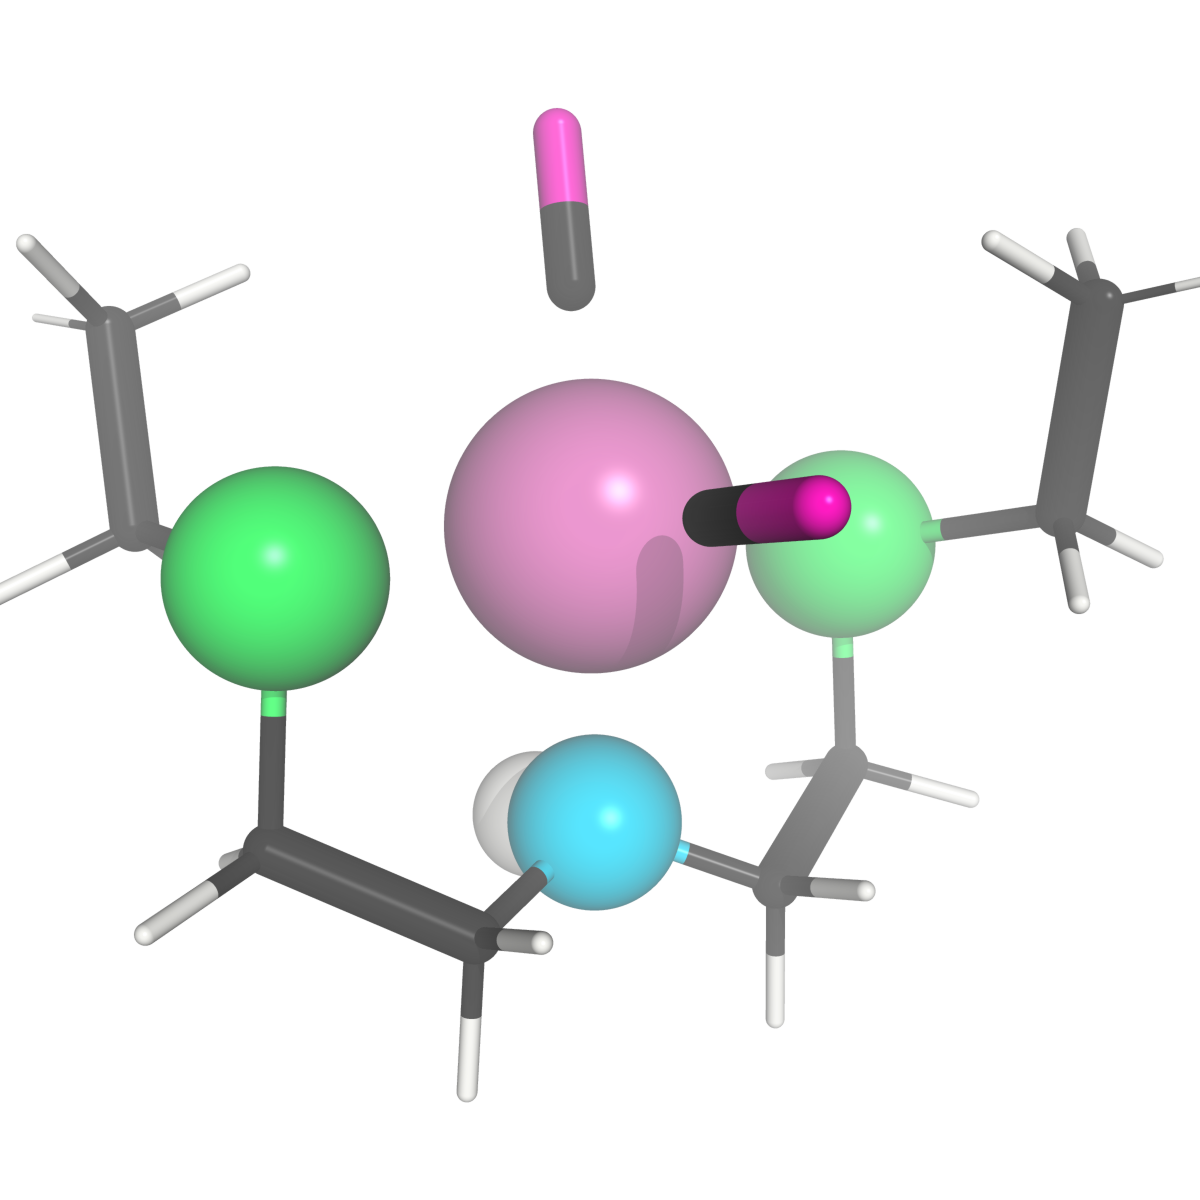
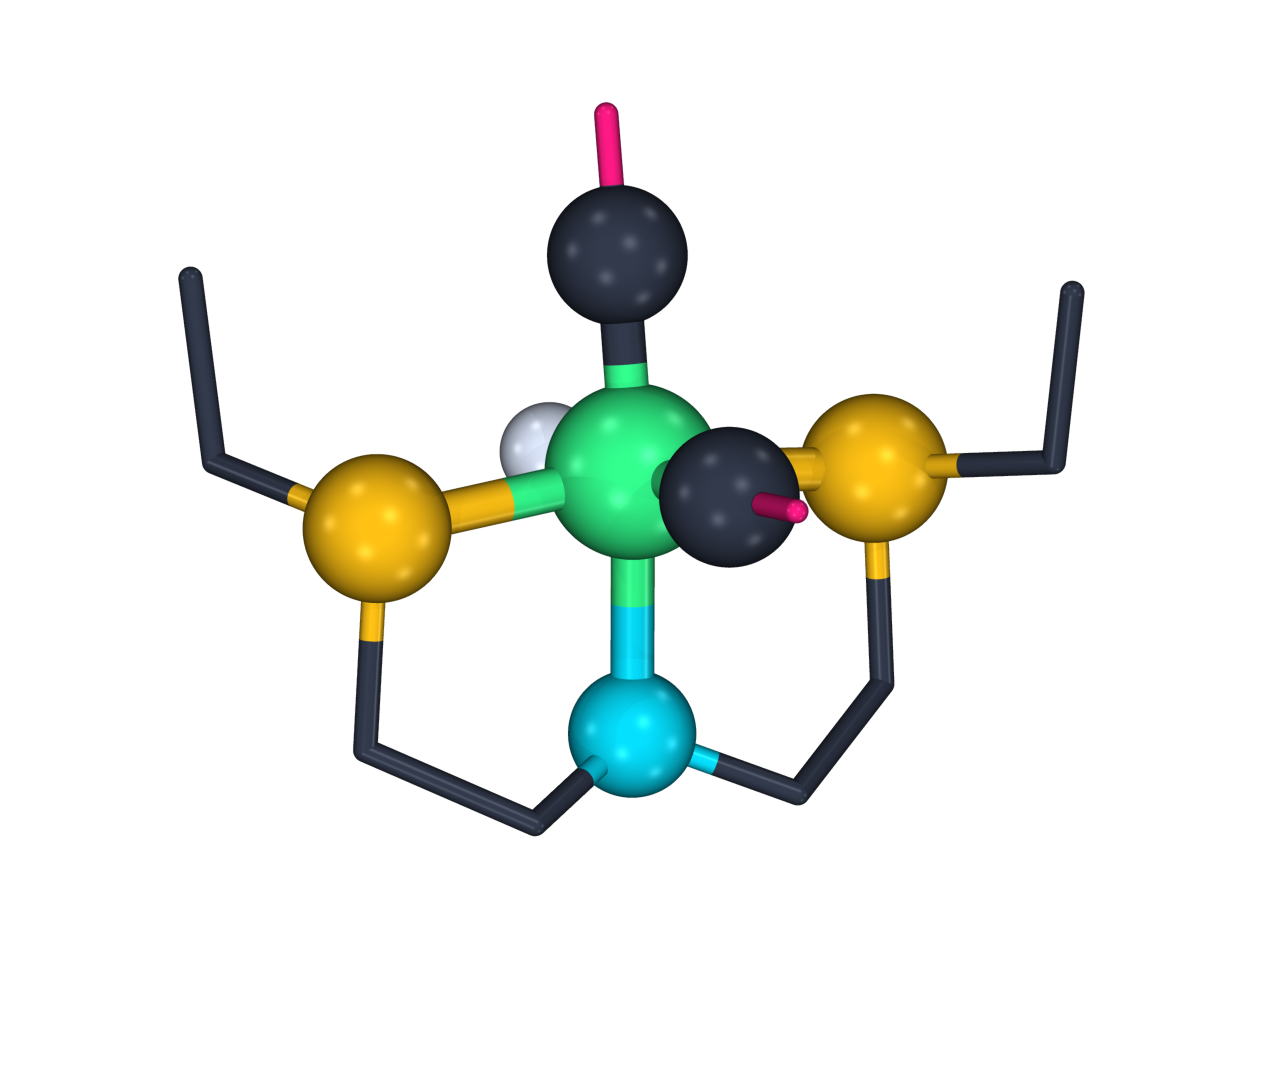
refactor: update steric-surface figure

Changed region(s): [[0.0, 0.0924, 1.0, 0.9235]]

diff --git a/chemsmart/jobs/mol/templates/scientific_styles.py b/chemsmart/jobs/mol/templates/scientific_styles.py
@@ -1515,22 +1515,72 @@ class StericSurfaceStyle(ScientificStyle):
 
     name = "steric_surface"
     command = "render_steric_surface"
+    prefix = "steric"
     message = "Transparent steric surface style applied."
 
-    def render(self, selection="all"):
-        _begin_scientific_style(selection)
-        _show_coord_ball_and_stick(selection)
-        _apply_coord_sphere_scales(0.095, 0.14, 0.24, 0.12, 0.52, 0.34)
-        _color_by_element(carbon="sci_C_gray", metal="metal_gold")
+    def _apply_atom_colors(self, sel, atoms):
+        self.apply_style_palette(
+            sel,
+            {
+                "C": "sci_C_gray",
+                "H": "sci_H_white",
+                "N": "sci_N_blue",
+                "O": "sci_O_red",
+                "S": "sci_S_yellow",
+                "P": "sci_P_orange",
+                "halogen": "sci_halogen",
+            },
+            overrides={atoms["metal"]: "metal_gold"},
+        )
+        cmd.color("sci_N_blue", atoms["donor_n"])
+        cmd.color("sci_S_yellow", atoms["donor_s"])
+        cmd.color("sci_P_orange", atoms["donor_p"])
+        cmd.color("sci_C_gray", atoms["co_c"])
+        cmd.color("sci_O_red", atoms["co_o"])
+        cmd.color("sci_H_white", atoms["hydride"])
 
-        cmd.show("surface", selection)
+    def render(self, selection="all"):
+        sel = f"({selection})"
+        _define_scientific_colors()
+        cmd.hide("everything", sel)
+
+        atoms = self.select_coordination(selection)
+
+        cmd.show("sticks", sel)
+        cmd.hide("sticks", f"{sel} and elem H and not {atoms['hydride']}")
+        cmd.hide("spheres", f"{sel} and elem H and not {atoms['hydride']}")
+        sphere_atoms = " or ".join(
+            part
+            for part in (
+                atoms["metal"],
+                atoms["donors"],
+                atoms["co_c"],
+                atoms["co_o"],
+                atoms["hydride"],
+            )
+            if part and part != "none"
+        )
+        if sphere_atoms:
+            cmd.show("spheres", sphere_atoms)
+
+        _safe_set("stick_radius", 0.095, sel)
+        _safe_set("stick_radius", 0.14, atoms["coordination_core"])
+        _safe_set("sphere_scale", 0.52, atoms["metal"])
+        _safe_set("sphere_scale", 0.34, atoms["donors"])
+        _safe_set("sphere_scale", 0.34, atoms["co_c"])
+        _safe_set("sphere_scale", 0.34, atoms["co_o"])
+        _safe_set("sphere_scale", 0.12, atoms["hydride"])
+
+        self._apply_atom_colors(sel, atoms)
+
+        cmd.show("surface", sel)
         cmd.color("surface_sky", selection)
-        cmd.set("transparency", 0.68, selection)
-        cmd.set("surface_quality", 1)
-        cmd.set("surface_solvent", 1)
+        _safe_set("transparency", 0.68, sel)
+        _safe_set("surface_quality", 1)
+        _safe_set("surface_solvent", 1)
 
         # Re-apply atom colors after surface coloring paints the whole selection.
-        _color_by_element(carbon="sci_C_gray", metal="metal_gold")
+        self._apply_atom_colors(sel, atoms)
 
         _apply_lighting(0.45, 0.22, 0.32, 0.74, 0.20, spec_power=120)
         _apply_view(
@@ -1539,10 +1589,7 @@ class StericSurfaceStyle(ScientificStyle):
             depth_cue=1,
             fog_start=0.45,
         )
-        _finish_scientific_style(
-            selection,
-            message=self.message,
-        )
+        self.finish_default(selection)
 
 
 class QuasiChemDrawBoldStyle(ScientificStyle):

diff --git a/tests/test_PyMOLJobs.py b/tests/test_PyMOLJobs.py
@@ -30,6 +30,7 @@ from chemsmart.jobs.mol.templates.scientific_styles import (
     ScientificStyle,
     SoftCartoonStyle,
     SoftCeramicStyle,
+    StericSurfaceStyle,
     XrayWireStyle,
     _get_coordinating_atoms,
     element_category_selection,
@@ -40,6 +41,7 @@ from chemsmart.jobs.mol.templates.scientific_styles import (
     render_quasi_chemdraw_bold,
     render_soft_cartoon,
     render_soft_ceramic,
+    render_steric_surface,
     render_xray_wire,
 )
 from chemsmart.jobs.mol.visualize import (
@@ -1204,6 +1206,41 @@ class TestPyMOLStyleCommands:
         assert '_safe_set("ray_trace_fog", 0)' in style_source
         assert "_set_transparent_background()" in style_source
         assert "apply_illustrated_camera" in style_source
+        assert "self.finish_default(selection)" in style_source
+
+    def test_render_steric_surface_defines_expected_visual_parameters(self):
+        style_source = inspect.getsource(StericSurfaceStyle)
+        wrapper_source = inspect.getsource(render_steric_surface)
+
+        assert issubclass(StericSurfaceStyle, ScientificStyle)
+        assert StericSurfaceStyle.prefix == "steric"
+        assert StericSurfaceStyle.command == "render_steric_surface"
+        assert "StericSurfaceStyle().render" in wrapper_source
+        assert "select_coordination" in style_source
+        assert "_begin_scientific_style" not in style_source
+        assert "_common_select_core" not in style_source
+        assert "_show_coord_ball_and_stick" not in style_source
+        assert "_apply_coord_sphere_scales" not in style_source
+        assert "_color_by_element" not in style_source
+        assert "_finish_scientific_style" not in style_source
+        assert "within 2.6" not in style_source
+        assert "byres" not in style_source
+        assert "sphere_atoms" in style_source
+        assert 'cmd.show("spheres", sphere_atoms)' in style_source
+        assert (
+            'cmd.show("spheres", atoms["coordination_core"])'
+            not in style_source
+        )
+        assert (
+            '_safe_set("sphere_scale", 0.52, atoms["metal"])' in style_source
+        )
+        assert '_safe_set("sphere_scale", 0.34, atoms["co_c"])' in style_source
+        assert '_safe_set("sphere_scale", 0.34, atoms["co_o"])' in style_source
+        assert 'cmd.color("sci_C_gray", atoms["co_c"])' in style_source
+        assert 'cmd.color("sci_O_red", atoms["co_o"])' in style_source
+        assert "apply_style_palette" in style_source
+        assert 'overrides={atoms["metal"]: "metal_gold"}' in style_source
+        assert '_safe_set("transparency", 0.68, sel)' in style_source
         assert "self.finish_default(selection)" in style_source
 
     def test_render_matte_clay_defines_expected_visual_parameters(self):